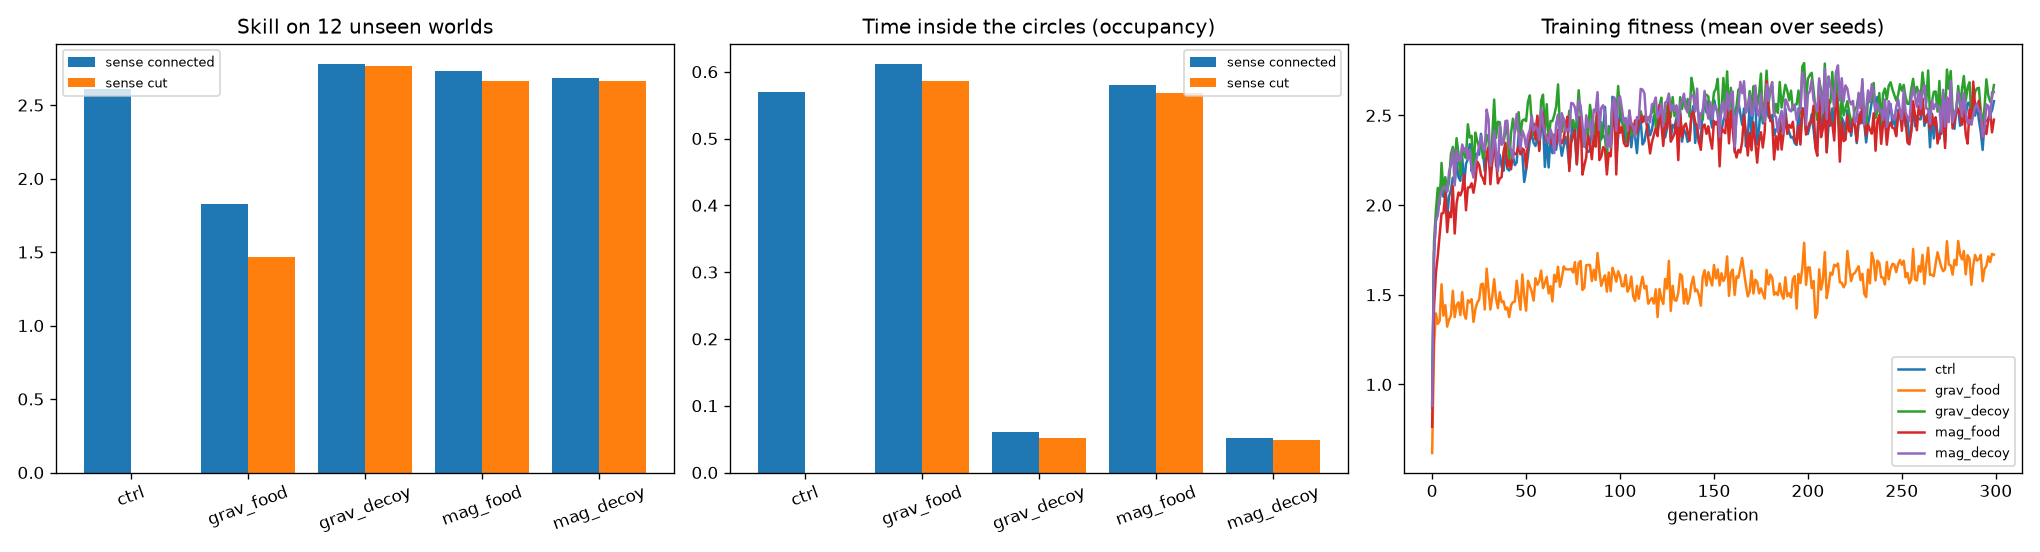
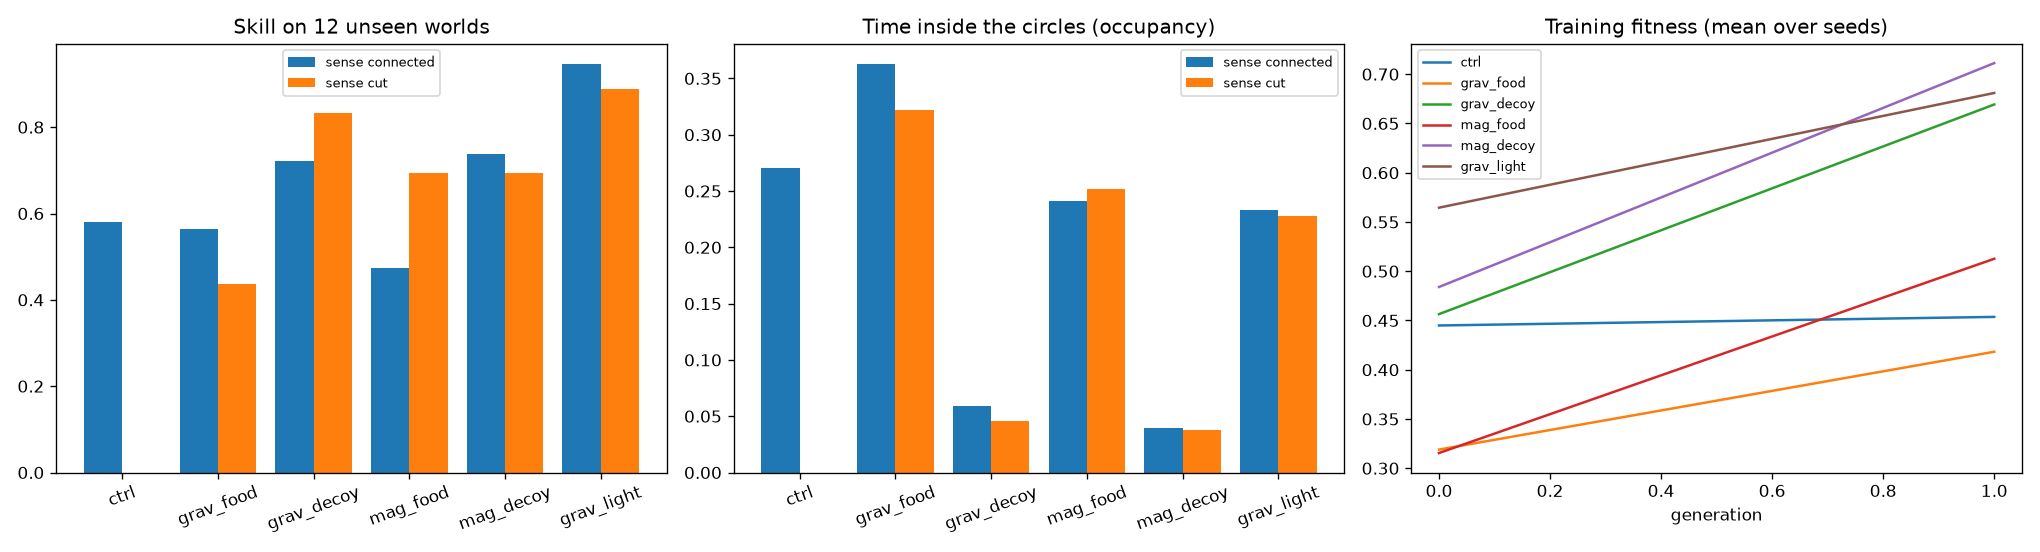
Step 23: add light-gravity-at-food arm (s23_grav_light, pre-registered H5/H6); queue it and the Step 24 gravity bite test
Claude-Session: https://claude.ai/code/session_01JRKPTizzbswAvZXcTDRZsd

diff --git a/python/ecosim/step23.py b/python/ecosim/step23.py
@@ -24,6 +24,9 @@ ARMS (16 seeds each, paired by seed: same seed = same food layouts every generat
   s23_mag_food     magnetic circles centred on the food, strength 1.0
   s23_mag_decoy    magnetic circles placed away from the food
   Decoy arms separate "the field is a food cue" from "the field changes the world" (cost, slowing, extra input).
+  s23_grav_light   ADDED 2026-11-16 after the first results: gravity circles on the food but LIGHT (circle_sign = -1):
+                   0 g at the centre, so the food sits where moving is FASTER (1.5x) and CHEAPER (-0.3 per tick).
+                   Same cue, opposite price. Tests whether the gravity cue helps when it does not also cost.
 
 PRE-REGISTERED RULES (written 2026-11-14 20:30 MT, before any run)
   Yardstick: each seed's best brain at generation 300, as 60 clones on 12 fixed unseen worlds (5100-5111), in its own
@@ -37,10 +40,15 @@ PRE-REGISTERED RULES (written 2026-11-14 20:30 MT, before any run)
   A test PASSES if Holm p < 0.05; the sign says helps (+) or hurts (-).
   Reported, not tested: decoy - ctrl and food - decoy for both senses, sense-cut for decoy arms, OCCUPANCY (mean field
   value under living worms = how much time they spend inside the circles), learning curves.
+  ADDED 2026-11-16 06:15 MT, before the s23_grav_light run (a separate family, so H1-H4 above are untouched):
+  Paired sign-flip, Holm over these 2:
+    H5  light gravity circles change skill:      grav_light - ctrl
+    H6  the light-gravity brains USE the sense:  grav_light own - grav_light sense-cut
+  Reported, not tested: grav_light - grav_food (does the price decide whether a gravity cue pays off?).
   Known limits, stated in advance: 16 seeds x 300 generations is short (Step 19 skill was still rising at 300); the
   gravity and magnetism effects are model assumptions, so the results are about this rule set, not real worms.
 
-    python -m ecosim.step23 full           # all 5 arms (skips finished ones; safe to re-queue), then the analysis
+    python -m ecosim.step23 full           # all 6 arms (skips finished ones; safe to re-queue), then the analysis
     python -m ecosim.step23 run            # arms only
     python -m ecosim.step23 analyze        # tests, statistics, chart
     python -m ecosim.step23 picture        # draws the circles + food of one world -> results/step23_circles.png
@@ -71,11 +79,15 @@ if os.environ.get('STEP23_TEST') or '--test' in sys.argv:   # tiny settings to c
 # arm -> (where the circles go, gravity strength, magnetic strength)
 ARMS = {'s23_ctrl': ('food', 0.0, 0.0),
         's23_grav_food': ('food', STRENGTH, 0.0), 's23_grav_decoy': ('decoy', STRENGTH, 0.0),
-        's23_mag_food': ('food', 0.0, STRENGTH), 's23_mag_decoy': ('decoy', 0.0, STRENGTH)}
+        's23_mag_food': ('food', 0.0, STRENGTH), 's23_mag_decoy': ('decoy', 0.0, STRENGTH),
+        's23_grav_light': ('food', STRENGTH, 0.0)}             # added 2026-11-16; light ground at the food (SIGN below)
+# circle_sign per arm: +1 = heavy gravity well inside a circle (default), -1 = light ground (0 g at the centre)
+SIGN = {'s23_grav_light': -1.0}
 for _a, (_place, _g, _m) in ARMS.items():
     CONDITIONS[_a] = dataclasses.replace(CONDITIONS['hunger'], fitness='end')
     # every arm has both fields switched on (so all worlds are built by identical code); the strengths decide
-    CFG_OVERRIDES[_a] = dict(s14.PRED, gravity=True, magnetism=True, field_circles=True, circle_place=_place)
+    CFG_OVERRIDES[_a] = dict(s14.PRED, gravity=True, magnetism=True, field_circles=True, circle_place=_place,
+                             circle_sign=SIGN.get(_a, 1.0))
 
 
 def set_strengths(sim, arm):
@@ -158,12 +170,18 @@ def analyze(out=OUT):
              'H4 magnetic brains use the sense': F['s23_mag_food'] - cut['s23_mag_food']['fitness']}
     p = {k: signflip(v) for k, v in diffs.items()}
     ph = holm(p)
+    # second pre-registered family (2026-11-16), Holm over its own 2 tests so H1-H4 keep their original correction
+    diffs2 = {'H5 light gravity circles vs control': F['s23_grav_light'] - F['s23_ctrl'],
+              'H6 light-gravity brains use the sense': F['s23_grav_light'] - cut['s23_grav_light']['fitness']}
+    p2 = {k: signflip(v) for k, v in diffs2.items()}
+    ph2 = holm(p2)
     rep = {'gravity decoy vs control': F['s23_grav_decoy'] - F['s23_ctrl'],
            'magnetic decoy vs control': F['s23_mag_decoy'] - F['s23_ctrl'],
            'gravity: food circles vs decoy': F['s23_grav_food'] - F['s23_grav_decoy'],
            'magnetic: food circles vs decoy': F['s23_mag_food'] - F['s23_mag_decoy'],
            'gravity decoy: own vs sense-cut': F['s23_grav_decoy'] - cut['s23_grav_decoy']['fitness'],
-           'magnetic decoy: own vs sense-cut': F['s23_mag_decoy'] - cut['s23_mag_decoy']['fitness']}
+           'magnetic decoy: own vs sense-cut': F['s23_mag_decoy'] - cut['s23_mag_decoy']['fitness'],
+           'gravity: light vs heavy at food': F['s23_grav_light'] - F['s23_grav_food']}
     lines = [f'Step 23 / Food-circle gravity & magnetism experiments: {len(seeds)} seeds, best brains at generation {GENS}, '
              f'{len(TEST_WORLDS)} unseen worlds x 60 clones',
              'arm              skill   food   occupancy | sense-cut: skill  occupancy']
@@ -175,6 +193,10 @@ def analyze(out=OUT):
     for k, d in diffs.items():
         v = ('PASS: helps' if d.mean() > 0 else 'PASS: hurts') if ph[k] < 0.05 else 'no detectable effect'
         lines.append(f'  {k:34s} {d.mean():+.3f}  (+ in {(d > 0).sum()}/{len(d)} seeds)  p={p[k]:.3g}  Holm p={ph[k]:.3g}  -> {v}')
+    lines.append('PRE-REGISTERED 2026-11-16 (light gravity at food; paired sign-flip, Holm over 2):')
+    for k, d in diffs2.items():
+        v = ('PASS: helps' if d.mean() > 0 else 'PASS: hurts') if ph2[k] < 0.05 else 'no detectable effect'
+        lines.append(f'  {k:34s} {d.mean():+.3f}  (+ in {(d > 0).sum()}/{len(d)} seeds)  p={p2[k]:.3g}  Holm p={ph2[k]:.3g}  -> {v}')
     lines.append('REPORTED (not tested):')
     for k, d in rep.items():
         lines.append(f'  {k:34s} {d.mean():+.3f}  (+ in {(d > 0).sum()}/{len(d)} seeds)  p={signflip(d):.3g} (uncorrected)')
@@ -182,6 +204,7 @@ def analyze(out=OUT):
     (RES / 'step23_stats.txt').write_text(txt + '\n')
     (RES / 'step23_stats.json').write_text(json.dumps(dict(
         seeds=seeds, p=p, holm=ph, tests={k: v.tolist() for k, v in diffs.items()},
+        p2=p2, holm2=ph2, tests2={k: v.tolist() for k, v in diffs2.items()},
         reported={k: v.tolist() for k, v in rep.items()},
         own={a: {m: v.tolist() for m, v in t.items()} for a, t in own.items()},
         cut={a: {m: v.tolist() for m, v in t.items()} for a, t in cut.items()})))

diff --git a/python/ecosim/STEP23_FOOD_CIRCLES_EXPERIMENT.md b/python/ecosim/STEP23_FOOD_CIRCLES_EXPERIMENT.md
@@ -69,6 +69,20 @@ living worms = how much time they spend inside circles), learning curves.
 **How to read it:** H3/H4 are the cleanest evidence the brains learned to use the field (same brains, only the sensor
 removed). H1 for gravity mixes the cue's benefit with its cost; compare with the decoy arm to separate them.
 
+### 4b. Added 2026-11-16 06:15 MT, before the run: the LIGHT-gravity arm
+Why: section 6 showed gravity wells at the food hurt skill but the brains still used the gravity sense. The cue
+came with a price (heavy ground at the food). New arm **s23_grav_light**: the same circles on the food, but
+`circle_sign = -1`, so gravity inside a circle is 1 g - strength x value = **0 g at the centre**: worms move up to
+1.5x faster there and pay 0.3 less energy per tick. Same cue, opposite price.
+
+A separate test family (Holm over 2), so H1-H4 keep their original correction:
+- **H5** light gravity circles change skill: `grav_light - ctrl`
+- **H6** the light-gravity brains use the sense: `grav_light own - grav_light sense-cut`
+
+Reported, not tested: `grav_light - grav_food` (does the price decide whether a gravity cue pays off?).
+The first 5-arm results are kept as `results/step23_stats_5arms_2026-11-15.txt/.json` and `step23_5arms_2026-11-15.png`;
+the new analysis re-tests all arms on the same unseen worlds and overwrites `step23_stats.*` / `step23.png`.
+
 **Known limits, stated in advance:** 16 seeds x 300 generations is short (Step 19 skill was still rising at 300); the
 gravity and magnetism effects are model assumptions, so the results describe this rule set, not real worms.
 

diff --git a/STATUS.md b/STATUS.md
@@ -15,8 +15,8 @@ Before launching anything on the GPU, check this section. If a run is listed as 
 
 | Status | What | Started | Launcher | Log | Est. done |
 |---|---|---|---|---|---|
-| IDLE since 2026-11-15 05:16 | queue empty; last runs: muscle_fair (done 02:29), food_circles_experiment (done 05:16) | - | - | - | - |
-| ready, NOT queued | gravity bite test (ecosim/step24.py, watcher gravity_bite_test, ~2.5 h); code check passed 12:19; waiting for the owner's go-ahead | - | - | - | - |
+| RUNNING 2026-11-16 06:08 | e3 food_circles_experiment: new arm s23_grav_light (light gravity at food), then re-analysis of all 6 arms (~1.5-2 h). Alone on the GPU. | 06:08 | watcher | remote/logs/e3_food_circles_light.txt | ~08:00 |
+| QUEUED 2 | e4 gravity_bite_test (ecosim/step24.py, ~2.5 h), starts when e3 ends | after e3 | watcher | remote/logs/e4_gravity_bite_test.txt | ~10:30 |
 
 **GPU runs now go through the remote watcher (python/remote): drop a job file in remote/queue/, read remote/status.json.**
 
